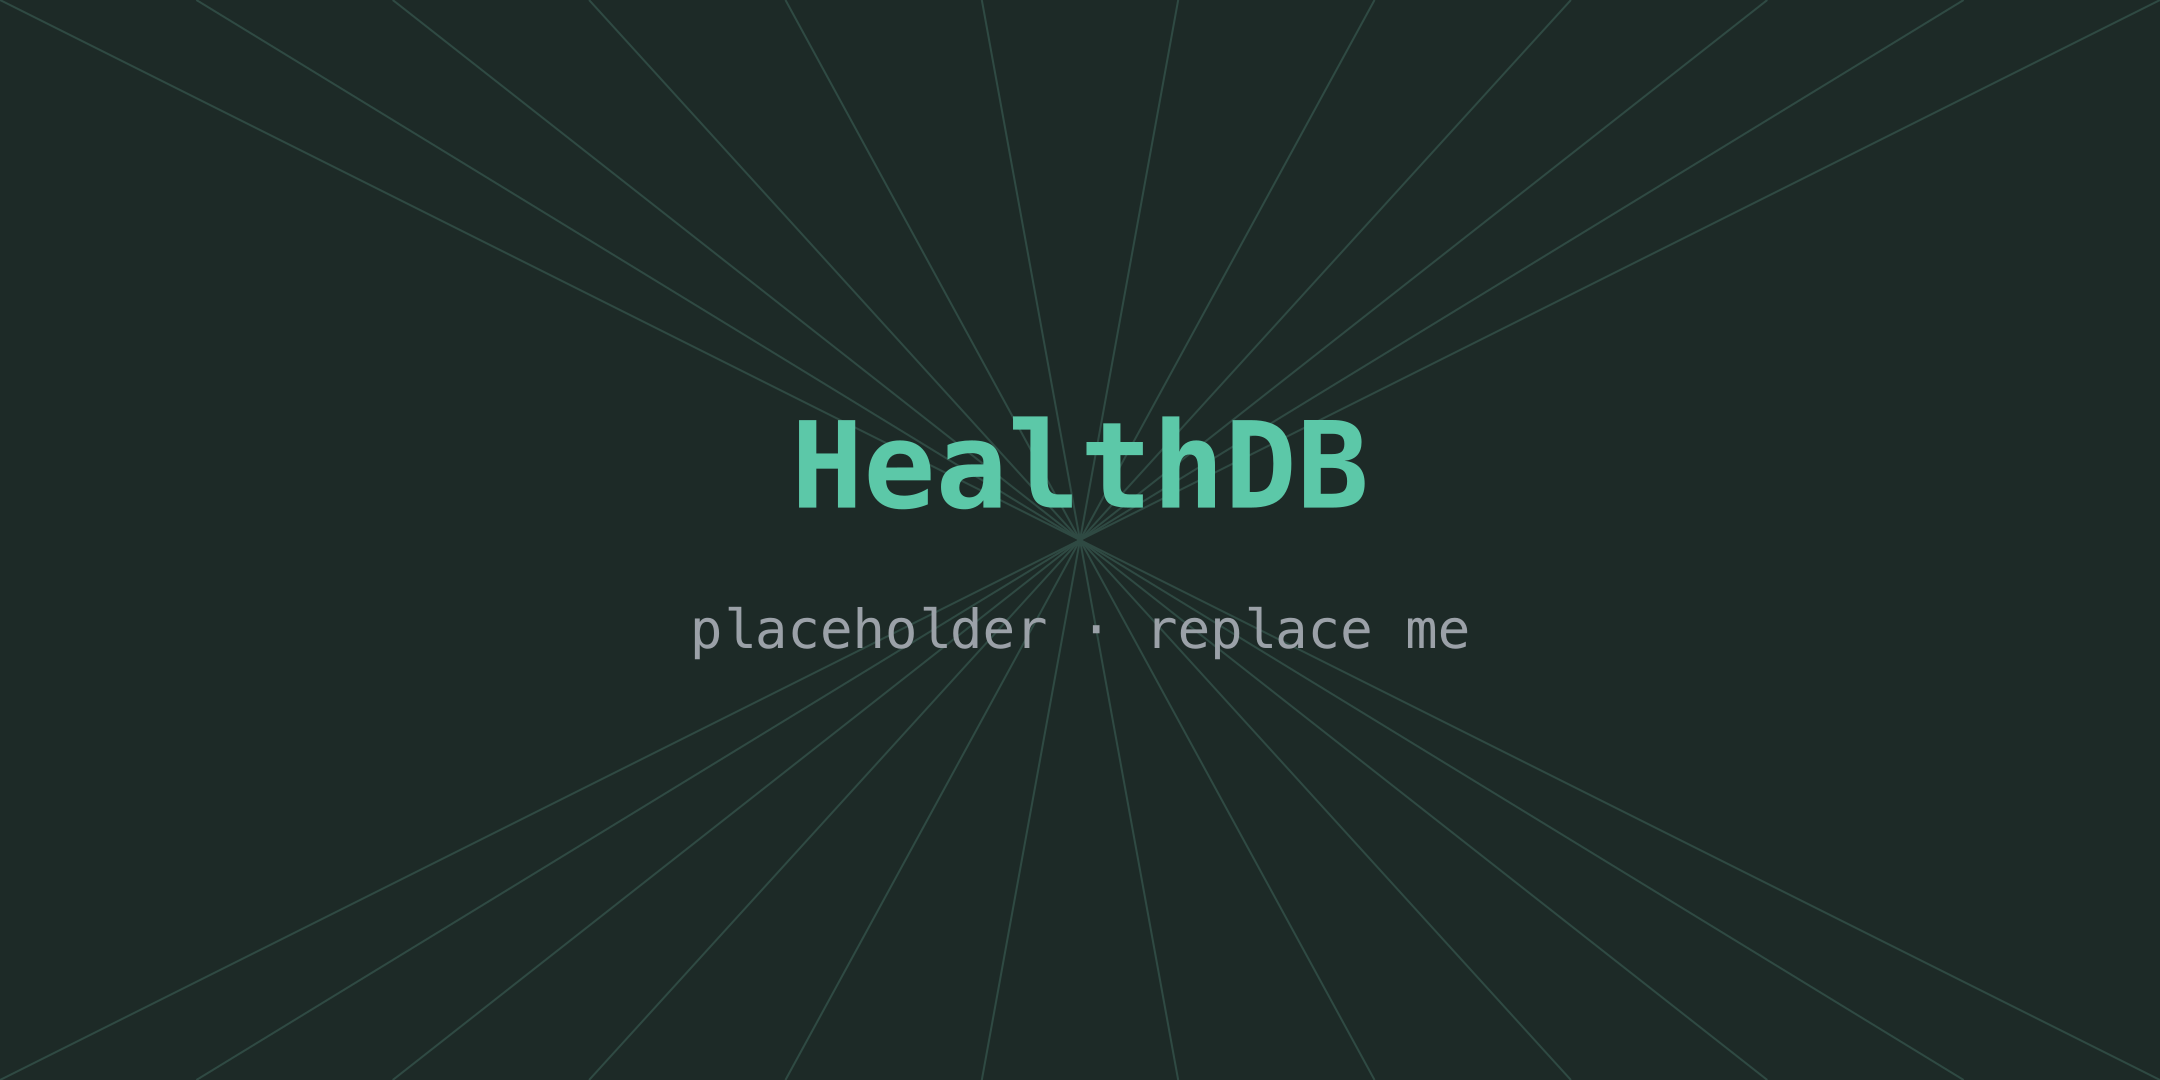
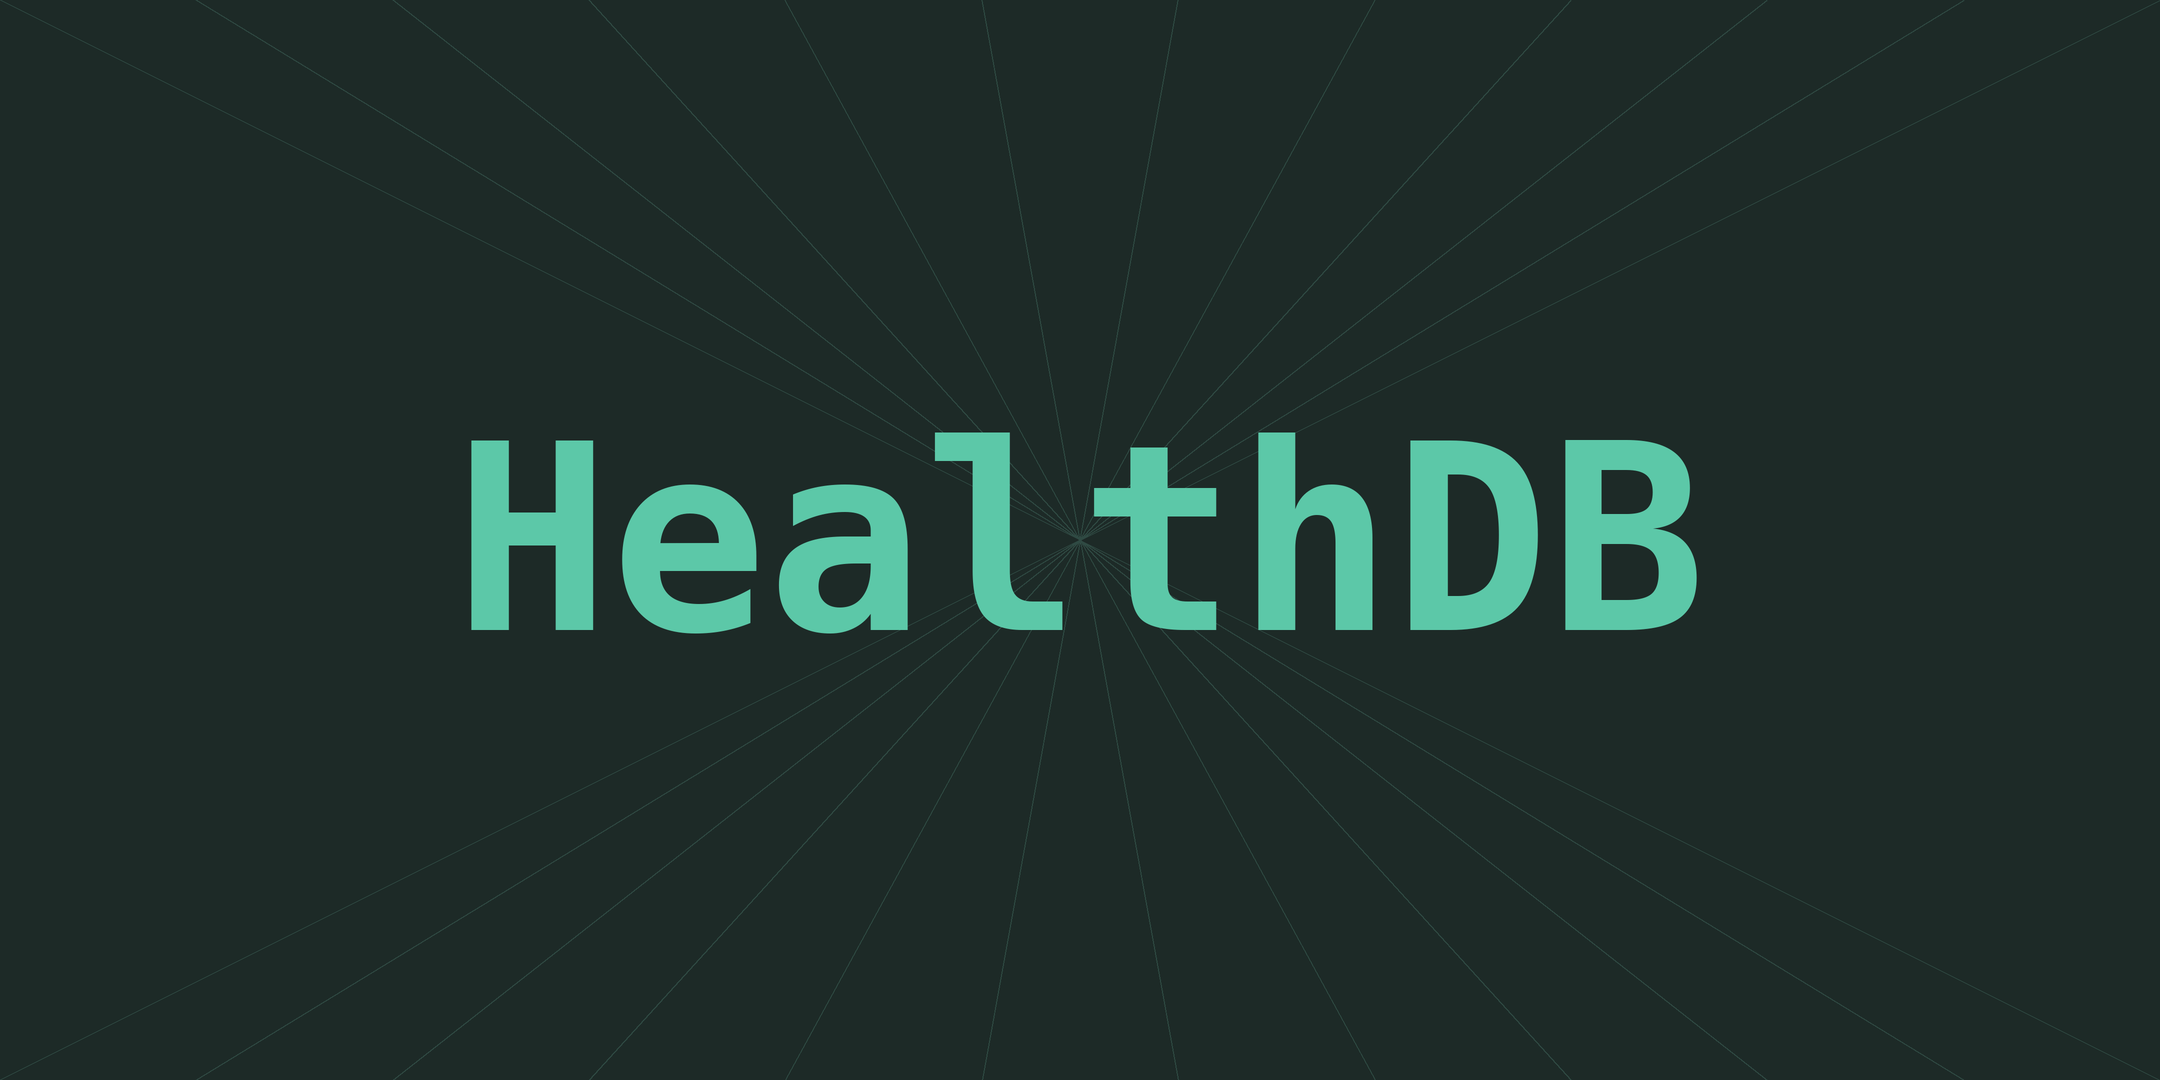
Replace HealthDB and PL/0 placeholders with plain title cards
The covers drop the "placeholder · replace me" line, and HealthDB's
placeholder gallery is commented out until real screenshots exist.

Changed region(s): [[0.2171, 0.3667, 0.8065, 0.6111]]

diff --git a/src/content/projects/healthdb.md b/src/content/projects/healthdb.md
@@ -2,7 +2,8 @@
 # Written from the local wire-up-wal-raft branch (2026-10-23). Five of those
 # commits aren't pushed yet, and GitHub's default branch is main, so push and
 # merge before publishing or the page describes code nobody can see.
-# Replace the placeholder images, then set `draft: false`.
+# The cover is a plain title card. The demo screenshots below are commented
+# out until real ones exist.
 title: HealthDB
 slug: healthdb
 tagline: Distributed key-value store on Raft, written in Rust
@@ -15,14 +16,14 @@ links:
   source: https://github.com/newwavejacob-web/HealthDB
 cover:
   src: ../../assets/projects/healthdb/cover.png
-  alt: HealthDB title card (placeholder)
-gallery:
-  - src: ../../assets/projects/healthdb/leader-election.png
-    alt: Terminal output from scripts/failover-demo.sh on a 5-node cluster (placeholder)
-    caption: scripts/failover-demo.sh kills the leader of a 5-node cluster, waits for a new one, and checks that the committed value survived.
-  - src: ../../assets/projects/healthdb/wal-recovery.png
-    alt: Log output from a node restoring its snapshot and replaying its WAL tail (placeholder)
-    caption: After a kill -9 of the whole cluster, each node loads its snapshot, replays its WAL tail, and the data is back.
+  alt: HealthDB title card
+# gallery:
+#   - src: ../../assets/projects/healthdb/leader-election.png
+#     alt: Terminal output from scripts/failover-demo.sh on a 5-node cluster
+#     caption: scripts/failover-demo.sh kills the leader of a 5-node cluster, waits for a new one, and checks that the committed value survived.
+#   - src: ../../assets/projects/healthdb/wal-recovery.png
+#     alt: Log output from a node restoring its snapshot and replaying its WAL tail
+#     caption: After a kill -9 of the whole cluster, each node loads its snapshot, replays its WAL tail, and the data is back.
 # video:
 #   embed: https://www.youtube-nocookie.com/embed/<id>
 #   title: 5-node cluster surviving a leader failure

diff --git a/src/content/projects/pl0-compiler.md b/src/content/projects/pl0-compiler.md
@@ -1,7 +1,7 @@
 ---
 # Written from the repo (2026-10-23). Coursework from Spring 2025: check your
-# course's policy on publishing it. Replace the placeholder cover (a terminal
-# shot of `make run` works well), then set `draft: false`.
+# course's policy on publishing it. The cover is a plain title card; a terminal
+# shot of `make run` would make a good replacement.
 title: PL/0 Compiler
 slug: pl0-compiler
 tagline: Single-pass compiler and stack virtual machine in C
@@ -15,7 +15,7 @@ links:
   source: https://github.com/newwavejacob-web/MiniC-Compiler
 cover:
   src: ../../assets/projects/pl0-compiler/cover.png
-  alt: PL/0 Compiler title card (placeholder)
+  alt: PL/0 Compiler title card
 next:
   - Rename the repo to pl0-compiler and remove the generated output files.
   - Add a folder of sample programs (factorial, nested procedures, recursion) with expected output, and a `make test` that diffs them.
